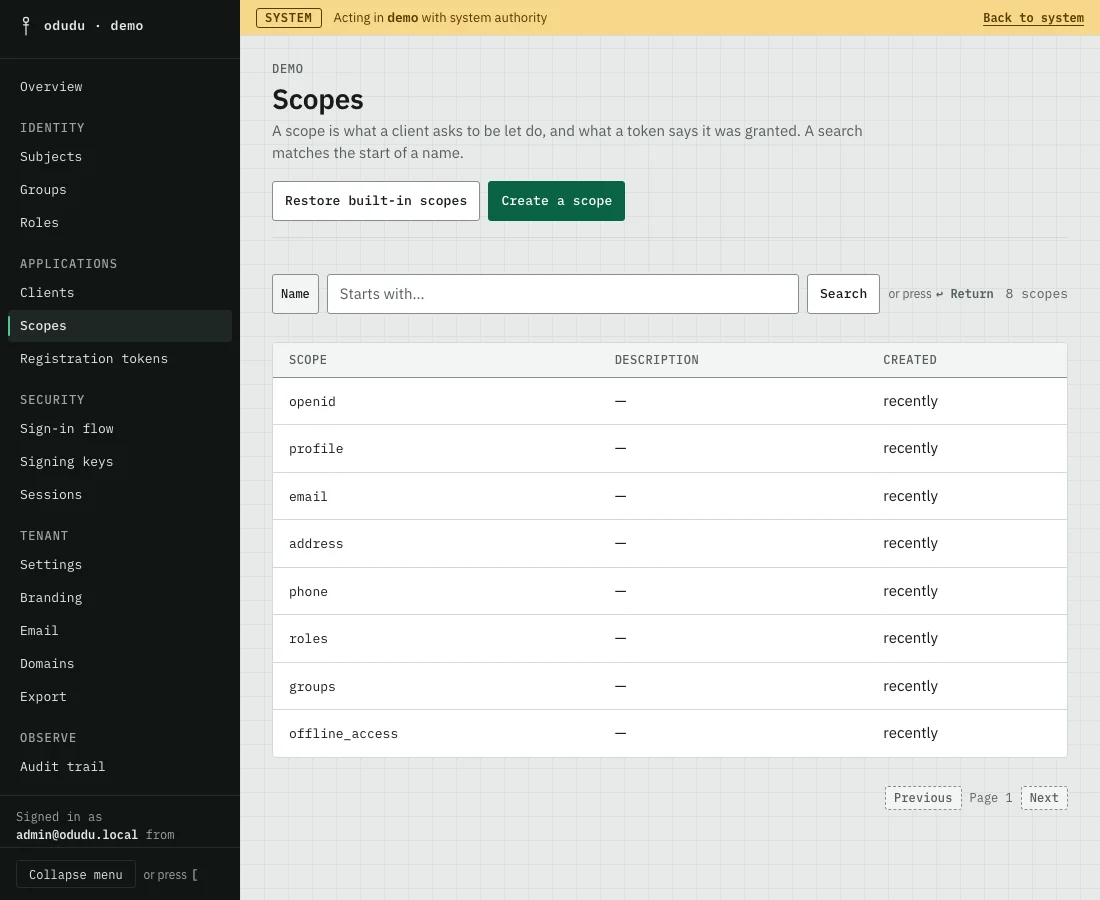
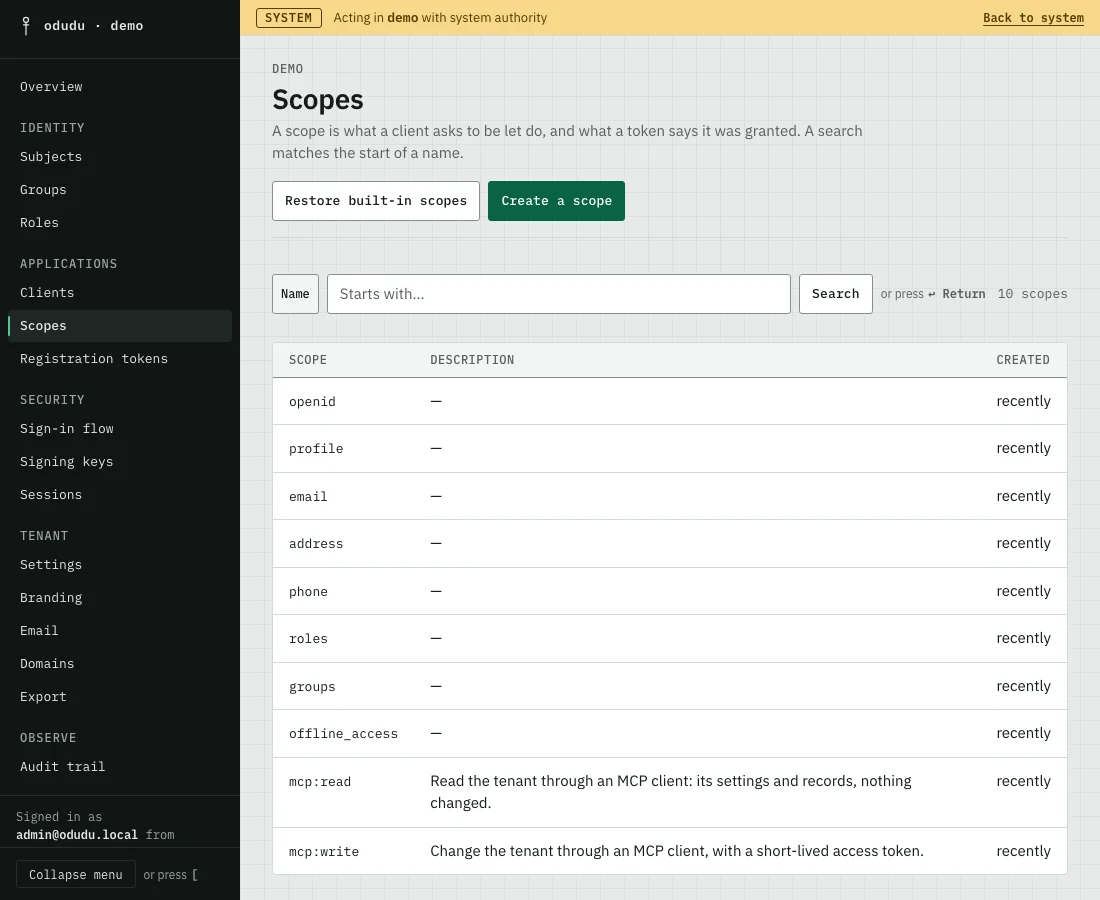
docs: mcp scopes in the scope lists, discovery transcript, changelog
Console shots regenerated; stale captures that were not re-run say so.

diff --git a/apps/docs/scripts/console-shots/screens.ts b/apps/docs/scripts/console-shots/screens.ts
@@ -266,8 +266,8 @@ export const SCREENS: readonly Screen[] = [
   },
   {
     name: 'scopes',
-    alt: "The demo tenant's Scopes list: openid, profile, email, address, phone, roles, groups and offline_access, with Restore built-in scopes and Create a scope buttons.",
-    caption: 'The eight scopes every tenant starts with.',
+    alt: "The demo tenant's Scopes list: openid, profile, email, address, phone, roles, groups, offline_access, mcp:read and mcp:write, with Restore built-in scopes and Create a scope buttons.",
+    caption: 'The ten scopes every tenant starts with.',
     signedIn: true,
     expect: [
       { heading: 'Scopes' },
@@ -282,12 +282,14 @@ export const SCREENS: readonly Screen[] = [
           'roles',
           'groups',
           'offline_access',
+          'mcp:read',
+          'mcp:write',
         ],
       },
     ],
     open: async (page, context) => {
       await openArea(page, context, `${DEMO}/scopes`);
-      await page.getByText('8 scopes').waitFor();
+      await page.getByText('10 scopes').waitFor();
     },
   },
   {

diff --git a/apps/docs/content/en/reference/transcripts/admin-paths/get-export.md b/apps/docs/content/en/reference/transcripts/admin-paths/get-export.md
@@ -118,6 +118,8 @@ Keep-Alive: timeout=72
 {"version":1,"settings":{"display_name":null,"enabled":true,"reset_password_allowed":false,"sso_session_idle_seconds":1800,"sso_session_max_seconds":36000,"password_min_length":15,"password_require_digit":false,"password_require_uppercase":false,"password_require_lowercase":false,"password_require_special":false,"password_not_username":true,"password_not_email":true,"password_history_depth":0,"password_max_age_days":0,"otp_required":false,"brute_force_max_failures":5,"brute_force_lockout_seconds":60,"brute_force_max_lockout_seconds":900,"brute_force_failure_reset_seconds":43200,"max_clients":200,"max_sessions_per_browser":25,"remember_me_allowed":false,"remember_me_idle_seconds":604800,"remember_me_max_seconds":2592000,"audit_retention_days":90,"username_editable":false,"access_token_ttl_seconds":300,"id_token_ttl_seconds":300,"refresh_token_ttl_seconds":1209600,"authorization_code_ttl_seconds":60,"login_ttl_seconds":1800,"verify_email_ttl_seconds":43200,"reset_password_ttl_seconds":300,"login_with_email":false,"audit_event_types":["admin_mutation","admin_access","authentication","session","token","credential"],"supported_locales":["en"],"default_locale":null},"flow":[{"authenticator":"passkey","requirement":"alternative"},{"authenticator":"password","requirement":"alternative"},{"authenticator":"otp","requirement":"conditional"},{"authenticator":"recovery-code","requirement":"conditional"}],"clients":[{"client_id":"billing-app","name":"billing-app","description":null,"name_i18n":{},"description_i18n":{},"type":"confidential","enabled":true,"full_scope_allowed":false,"skip_logout_confirmation":false,"registration_origin":"operator","redirect_uris":[],"grant_types":["client_credentials"],"token_endpoint_auth_method":"client_secret_basic","audiences":[],"access_token_ttl_seconds":null,"id_token_ttl_seconds":null,"refresh_token_ttl_seconds":null,"client_credentials_scopes":[],"web_origins":[],"post_logout_redirect_uris":[],"jwks":null,"jwks_uri":null,"frontchannel_logout_uri":null,"backchannel_logout_uri":null,"frontchannel_logout_session_required":false,"backchannel_logout_session_required":false,"consent_required":false,"token_exchange_impersonation_allowed":false,"userinfo_signed_response_alg":null,"userinfo_encrypted_response_alg":null,"userinfo_encrypted_response_enc":null,"tls_client_auth_subject_dn":null,"client_uri":null,"policy_uri":null,"tos_uri":null,"id_token_signed_response_alg":null,"default_max_age":null,"require_auth_time":false,"service_account_roles":[]}],"roles":[{"name":"billing-reader","client":null,"description":null,"default_for_new_subjects":false,"builtin":false,"composites":[]},{"name":"manage-clients","client":"odudu-admin","description":null,"default_for_new_subjects":false,"builtin":true,"composites":[]},{"name":"manage-domains","client":"odudu-admin","description":null,"default_for_new_subjects":false,"builtin":true,"composites":[{"name":"view-domains","client":"odudu-admin"}]},{"name":"manage-keys","client":"odudu-admin","description":null,"default_for_new_subjects":false,"builtin":true,"composites":[]},{"name":"manage-sessions","client":"odudu-admin","description":null,"default_for_new_subjects":false,"builtin":true,"composites":[]},{"name":"manage-tenant","client":"odudu-admin","description":null,"default_for_new_subjects":false,"builtin":true,"composites":[]},{"name":"manage-users","client":"odudu-admin","description":null,"default_for_new_subjects":false,"builtin":true,"composites":[{"name":"view-users","client":"odudu-admin"}]},{"name":"tenant-admin","client":"odudu-admin","description":null,"default_for_new_subjects":false,"builtin":true,"composites":[{"name":"manage-clients","client":"odudu-admin"},{"name":"manage-domains","client":"odudu-admin"},{"name":"manage-keys","client":"odudu-admin"},{"name":"manage-sessions","client":"odudu-admin"},{"name":"manage-tenant","client":"odudu-admin"},{"name":"manage-users","client":"odudu-admin"},{"name":"view-audit","client":"odudu-admin"},{"name":"view-domains","client":"odudu-admin"},{"name":"view-users","client":"odudu-admin"}]},{"name":"view-audit","client":"odudu-admin","description":null,"default_for_new_subjects":false,"builtin":true,"composites":[]},{"name":"view-domains","client":"odudu-admin","description":null,"default_for_new_subjects":false,"builtin":true,"composites":[]},{"name":"view-users","client":"odudu-admin","description":null,"default_for_new_subjects":false,"builtin":true,"composites":[]}],"groups":[{"path":"/finance","description":null,"default_for_new_subjects":false,"roles":[]}],"scopes":[{"name":"address","description":null,"include_in_id_token":true,"include_in_access_token":false,"default_client_assignment":"default","consent_text":null,"description_i18n":{},"consent_text_i18n":{},"display_order":0,"builtin":true,"roles":[],"mappers":[],"clients":[{"client_id":"billing-app","assignment":"default"}]},{"name":"email","description":null,"include_in_id_token":true,"include_in_access_token":false,"default_client_assignment":"default","consent_text":null,"description_i18n":{},"consent_text_i18n":{},"display_order":0,"builtin":true,"roles":[],"mappers":[],"clients":[{"client_id":"billing-app","assignment":"default"}]},{"name":"groups","description":null,"include_in_id_token":false,"include_in_access_token":true,"default_client_assignment":"default","consent_text":null,"description_i18n":{},"consent_text_i18n":{},"display_order":0,"builtin":true,"roles":[],"mappers":[],"clients":[{"client_id":"billing-app","assignment":"default"}]},{"name":"offline_access","description":null,"include_in_id_token":false,"include_in_access_token":false,"default_client_assignment":"optional","consent_text":null,"description_i18n":{},"consent_text_i18n":{},"display_order":0,"builtin":true,"roles":[],"mappers":[],"clients":[{"client_id":"billing-app","assignment":"optional"}]},{"name":"openid","description":null,"include_in_id_token":true,"include_in_access_token":false,"default_client_assignment":"default","consent_text":null,"description_i18n":{},"consent_text_i18n":{},"display_order":0,"builtin":true,"roles":[],"mappers":[],"clients":[{"client_id":"billing-app","assignment":"default"}]},{"name":"phone","description":null,"include_in_id_token":true,"include_in_access_token":false,"default_client_assignment":"default","consent_text":null,"description_i18n":{},"consent_text_i18n":{},"display_order":0,"builtin":true,"roles":[],"mappers":[],"clients":[{"client_id":"billing-app","assignment":"default"}]},{"name":"profile","description":null,"include_in_id_token":true,"include_in_access_token":false,"default_client_assignment":"default","consent_text":null,"description_i18n":{},"consent_text_i18n":{},"display_order":0,"builtin":true,"roles":[],"mappers":[],"clients":[{"client_id":"billing-app","assignment":"default"}]},{"name":"roles","description":null,"include_in_id_token":false,"include_in_access_token":true,"default_client_assignment":"default","consent_text":null,"description_i18n":{},"consent_text_i18n":{},"display_order":0,"builtin":true,"roles":[],"mappers":[],"clients":[{"client_id":"billing-app","assignment":"default"}]}],"registration_policy":{"registration_allowed":false,"verify_email":false,"client_registration_policy":"disabled"},"smtp":{"host":"smtp.example.test","port":587,"from_address":"noreply@export.example","username":null,"starttls":true},"message_overrides":[],"omitted":["clients[0].secret","smtp.password"]}
 ```
 
+A server that has `mcp:read` and `mcp:write` in the tenant exports both under `scopes`, with `default_client_assignment` `null` and no clients; this capture was taken before they existed and was not re-run.
+
 This block ran again after `view-domains` and `manage-domains` joined the built-in roles, so its ids and times are not those of the blocks around it. The tenant was made with the setup above, so the rest of the export is the same; the roles are the difference: two more built-in ones, and nine in `tenant-admin`.
 
 The SMTP password appears nowhere in it, nor in the export with subjects:

diff --git a/apps/docs/content/en/reference/transcripts/console-paths/get-consoleapitenantstenantdiscovery-get-consoleapitenantstenantjwks.md b/apps/docs/content/en/reference/transcripts/console-paths/get-consoleapitenantstenantdiscovery-get-consoleapitenantstenantjwks.md
@@ -51,6 +51,8 @@ Keep-Alive: timeout=72
 {"issuer":"http://localhost:3082/tenants/system","authorization_endpoint":"http://localhost:3082/tenants/system/protocol/openid-connect/auth","token_endpoint":"http://localhost:3082/tenants/system/protocol/openid-connect/token","introspection_endpoint":"http://localhost:3082/tenants/system/protocol/openid-connect/token/introspect","revocation_endpoint":"http://localhost:3082/tenants/system/protocol/openid-connect/revoke","userinfo_endpoint":"http://localhost:3082/tenants/system/protocol/openid-connect/userinfo","jwks_uri":"http://localhost:3082/tenants/system/protocol/openid-connect/certs","end_session_endpoint":"http://localhost:3082/tenants/system/protocol/openid-connect/logout","response_types_supported":["code"],"response_modes_supported":["query"],"subject_types_supported":["public"],"id_token_signing_alg_values_supported":["RS256","ES256"],"userinfo_signing_alg_values_supported":["ES256","none"],"userinfo_encryption_alg_values_supported":["RSA-OAEP-256","ECDH-ES","ECDH-ES+A128KW","ECDH-ES+A192KW","ECDH-ES+A256KW"],"userinfo_encryption_enc_values_supported":["A128CBC-HS256","A192CBC-HS384","A256CBC-HS512","A128GCM","A192GCM","A256GCM"],"code_challenge_methods_supported":["S256"],"grant_types_supported":["authorization_code","refresh_token","client_credentials","urn:ietf:params:oauth:grant-type:token-exchange"],"token_endpoint_auth_methods_supported":["client_secret_basic","client_secret_post","none","private_key_jwt"],"introspection_endpoint_auth_methods_supported":["client_secret_basic","client_secret_post","private_key_jwt","none"],"revocation_endpoint_auth_methods_supported":["client_secret_basic","client_secret_post","private_key_jwt","none"],"authorization_response_iss_parameter_supported":true,"claims_parameter_supported":true,"ui_locales_supported":["en"],"prompt_values_supported":["none","login","consent","select_account"],"backchannel_logout_supported":true,"backchannel_logout_session_supported":true,"frontchannel_logout_supported":true,"frontchannel_logout_session_supported":true,"scopes_supported":["address","email","groups","offline_access","openid","phone","profile","roles"],"claims_supported":["sub","name","given_name","family_name","middle_name","nickname","preferred_username","profile","picture","website","gender","birthdate","zoneinfo","locale","updated_at","email","email_verified","roles","groups","address","phone_number","phone_number_verified"]}
 ```
 
+A server that has `mcp:read` and `mcp:write` in the tenant lists both in `scopes_supported`, between `groups` and `offline_access`; this capture was taken before they existed and was not re-run, so its list stops at eight.
+
 `ada`'s own tenant is `system`, so the same session also reads a tenant
 that does not exist, answering `404` rather than `403`:
 

diff --git a/apps/docs/content/en/reference/transcripts/request-paths/custom-domains-a-domain-host-and-the-proxys-question.md b/apps/docs/content/en/reference/transcripts/request-paths/custom-domains-a-domain-host-and-the-proxys-question.md
@@ -137,6 +137,8 @@ Keep-Alive: timeout=72
 {"issuer":"http://login.acme-corp.dev","authorization_endpoint":"http://login.acme-corp.dev/protocol/openid-connect/auth","token_endpoint":"http://login.acme-corp.dev/protocol/openid-connect/token","introspection_endpoint":"http://login.acme-corp.dev/protocol/openid-connect/token/introspect","revocation_endpoint":"http://login.acme-corp.dev/protocol/openid-connect/revoke","userinfo_endpoint":"http://login.acme-corp.dev/protocol/openid-connect/userinfo","jwks_uri":"http://login.acme-corp.dev/protocol/openid-connect/certs","end_session_endpoint":"http://login.acme-corp.dev/protocol/openid-connect/logout","response_types_supported":["code"],"response_modes_supported":["query"],"subject_types_supported":["public"],"id_token_signing_alg_values_supported":["RS256","ES256"],"userinfo_signing_alg_values_supported":["RS256","none"],"userinfo_encryption_alg_values_supported":["RSA-OAEP-256","ECDH-ES","ECDH-ES+A128KW","ECDH-ES+A192KW","ECDH-ES+A256KW"],"userinfo_encryption_enc_values_supported":["A128CBC-HS256","A192CBC-HS384","A256CBC-HS512","A128GCM","A192GCM","A256GCM"],"code_challenge_methods_supported":["S256"],"grant_types_supported":["authorization_code","refresh_token","client_credentials","urn:ietf:params:oauth:grant-type:token-exchange"],"token_endpoint_auth_methods_supported":["client_secret_basic","client_secret_post","none","private_key_jwt"],"introspection_endpoint_auth_methods_supported":["client_secret_basic","client_secret_post","private_key_jwt","none"],"revocation_endpoint_auth_methods_supported":["client_secret_basic","client_secret_post","private_key_jwt","none"],"authorization_response_iss_parameter_supported":true,"claims_parameter_supported":true,"ui_locales_supported":["en"],"prompt_values_supported":["none","login","consent","select_account"],"backchannel_logout_supported":true,"backchannel_logout_session_supported":true,"frontchannel_logout_supported":true,"frontchannel_logout_session_supported":true,"scopes_supported":["address","email","groups","offline_access","openid","phone","profile","roles"],"claims_supported":["sub","name","given_name","family_name","middle_name","nickname","preferred_username","profile","picture","website","gender","birthdate","zoneinfo","locale","updated_at","email","email_verified","roles","groups","address","phone_number","phone_number_verified"]}
 ```
 
+A server that has `mcp:read` and `mcp:write` in the tenant lists both in `scopes_supported`, between `groups` and `offline_access`; this capture was taken before they existed and was not re-run, so its list stops at eight.
+
 ```bash
 curl -sS http://localhost:3000/tenants/demo/.well-known/openid-configuration | jq -r '.issuer, .token_endpoint'
 ```

diff --git a/CHANGELOG.md b/CHANGELOG.md
@@ -8,6 +8,7 @@ All notable changes to Odudu are written here, newest first. The format follows
 
 ### Added
 
+- Every tenant has two new scopes, `mcp:read` and `mcp:write`, for the clients that will use its MCP endpoint, and a tenant that exists before the upgrade gets them when the server migrates. Neither is given to any client until you assign it. A request for either is refused with `invalid_scope` unless the resource is the tenant's MCP address (its address followed by `/mcp`) or the admin API, at the sign-in request and at the token endpoint for every grant, so a client registered for several audiences must name the MCP address as its `resource`. The consent screen says in plain words what each lets an application do, in English and Arabic, and `odudu seed restore-scopes` creates them again if one is deleted.
 - Each tenant publishes OAuth 2.0 authorization server metadata (RFC 8414), so a client that knows only a resource can find where to sign in without being told. It is at `/.well-known/oauth-authorization-server/tenants/<name>` on your base address, or at `/.well-known/oauth-authorization-server` on a tenant's own domain, and states the tenant's issuer and the same endpoints as its discovery document. It lists `mcp:read` and `mcp:write` among the scopes, `none` and `private_key_jwt` among the ways a client authenticates, and the signing algorithms `private_key_jwt` accepts. A tenant that is disabled or does not exist answers an empty `404`.
 - Each tenant publishes OAuth 2.0 protected resource metadata (RFC 9728) for its MCP endpoint, so an MCP client given only that address can find where to sign in. It is at `/.well-known/oauth-protected-resource/tenants/<name>/mcp` on your base address, or at `/.well-known/oauth-protected-resource/mcp` on a tenant's own domain. It states the MCP address as the `resource`, the tenant's issuer as its authorization server (the same issuer its authorization server metadata states), and `mcp:read` and `mcp:write` as the scopes. A tenant that is disabled or does not exist answers an empty `404`. The MCP endpoint itself is not served yet.
 - A tenant can have a public address of its own, such as `login.acme.com`, instead of `/tenants/<name>` under your server's address. Its sign-in pages, the issuer its tokens carry, its cookies and the links in its mail follow that address, and a tenant that does nothing behaves exactly as before. The guide is [Custom domains](apps/docs/content/en/operating/custom-domains.md).

diff --git a/apps/docs/content/en/reference/transcripts/request-paths/path-a-authorization-code-with-pkce.md b/apps/docs/content/en/reference/transcripts/request-paths/path-a-authorization-code-with-pkce.md
@@ -81,6 +81,8 @@ curl -sS http://localhost:3000/tenants/demo/.well-known/openid-configuration
     "address",
     "email",
     "groups",
+    "mcp:read",
+    "mcp:write",
     "offline_access",
     "openid",
     "phone",
@@ -127,12 +129,13 @@ for every tenant — see
 reads them.
 
 `scopes_supported` is the tenant's own scope vocabulary, read from the
-database rather than compiled in: these eight are what `odudu seed` gives a
+database rather than compiled in: these ten are what `odudu seed` gives a
 new tenant, and a tenant that is given another scope advertises it here the
 moment it exists. A scope is seeded only once a claim mapper can answer for
 it, or — `offline_access`'s own exception — once it asks for a grant shape
 rather than for data (see [offline access](./rp-initiated-logout.md#offline-access) below), so this
-list never promises claims nothing returns.
+list never promises claims nothing returns. `mcp:read` and `mcp:write` are the third kind: they ask to use
+the tenant's MCP endpoint, which carries no claims either.
 
 Being advertised is only half of what `/authorize` needs, though — **a scope
 is granted only when the tenant defines it _and_ the client is assigned it**,

diff --git a/apps/docs/content/en/reference/transcripts/admin-paths/get-scopesidimpact-get-scopesbuiltins-and-post-scopesrestore-builtins.md b/apps/docs/content/en/reference/transcripts/admin-paths/get-scopesidimpact-get-scopesbuiltins-and-post-scopesrestore-builtins.md
@@ -11,7 +11,7 @@ All three require `manage-tenant`. They are what deleting a built-in scope needs
 around it: what the delete would take, which built-ins a tenant is missing, and
 the way to create a missing one again. A **built-in** scope is one every tenant
 is given when it is created: `openid`, `profile`, `email`, `address`, `phone`,
-`roles`, `groups` and `offline_access`. `DELETE /scopes/:id` deletes any of them
+`roles`, `groups`, `offline_access`, `mcp:read` and `mcp:write`. `DELETE /scopes/:id` deletes any of them
 but `openid`, and only when its `confirm` query parameter names the scope again,
 as `DELETE /admin/tenants/{tenant}` does for a tenant, so a script cannot take
 one by accident. Built-in status is decided by the name alone, so a scope created under one of those names is built in too, and a restore will not create a name that exists. An ordinary scope needs no `confirm`, and one sent with it is

diff --git a/docs/protocols/rfc9068.md b/docs/protocols/rfc9068.md
@@ -105,6 +105,14 @@ management's, not this task's: recorded as an open question for whichever
 phase gives scopes an audience of their own, rather than claimed here
 against a mechanism that does not establish it.
 
+The two scopes P5a adds are the exception, and they are coherent with `aud`
+by construction: `mcp:read` and `mcp:write` are refused unless every audience
+the token would carry is the tenant's MCP endpoint (its issuer followed by
+`/mcp`) or the admin API (`scopesCoherentWithAudience`, checked at
+`/authorize` and, for every grant, where the access token is minted). That
+does not build the per-audience model, so the open question stays where it
+was, with P9.
+
 ### Token-type confusion, and what `typ: at+jwt` closes
 
 An OAuth access token and an OpenID Connect ID Token can end up looking
